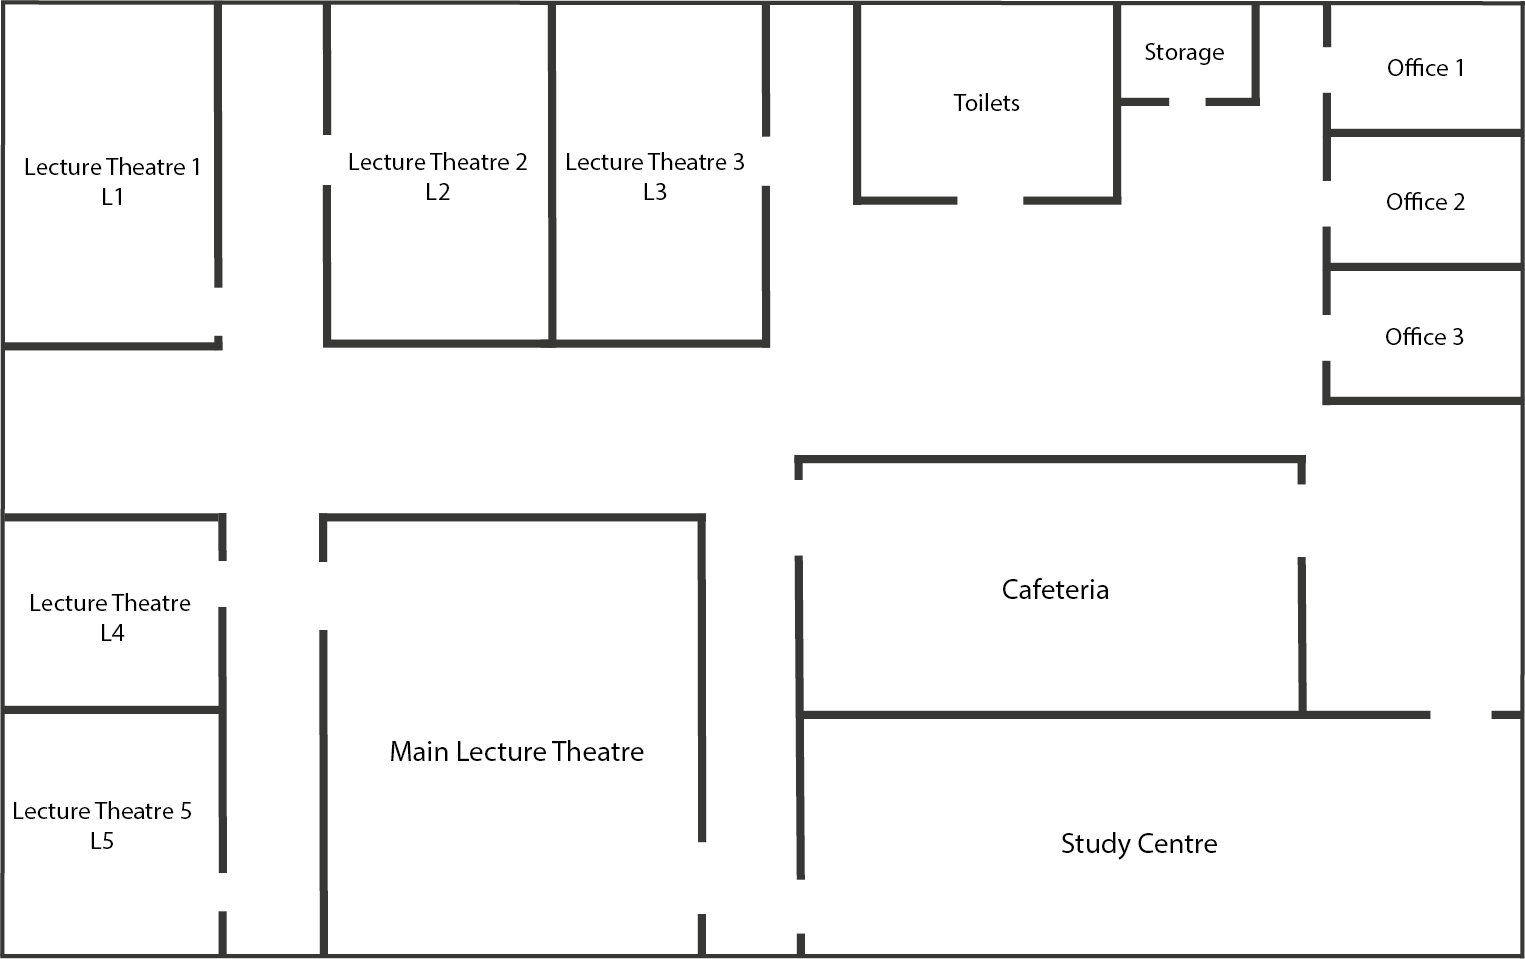
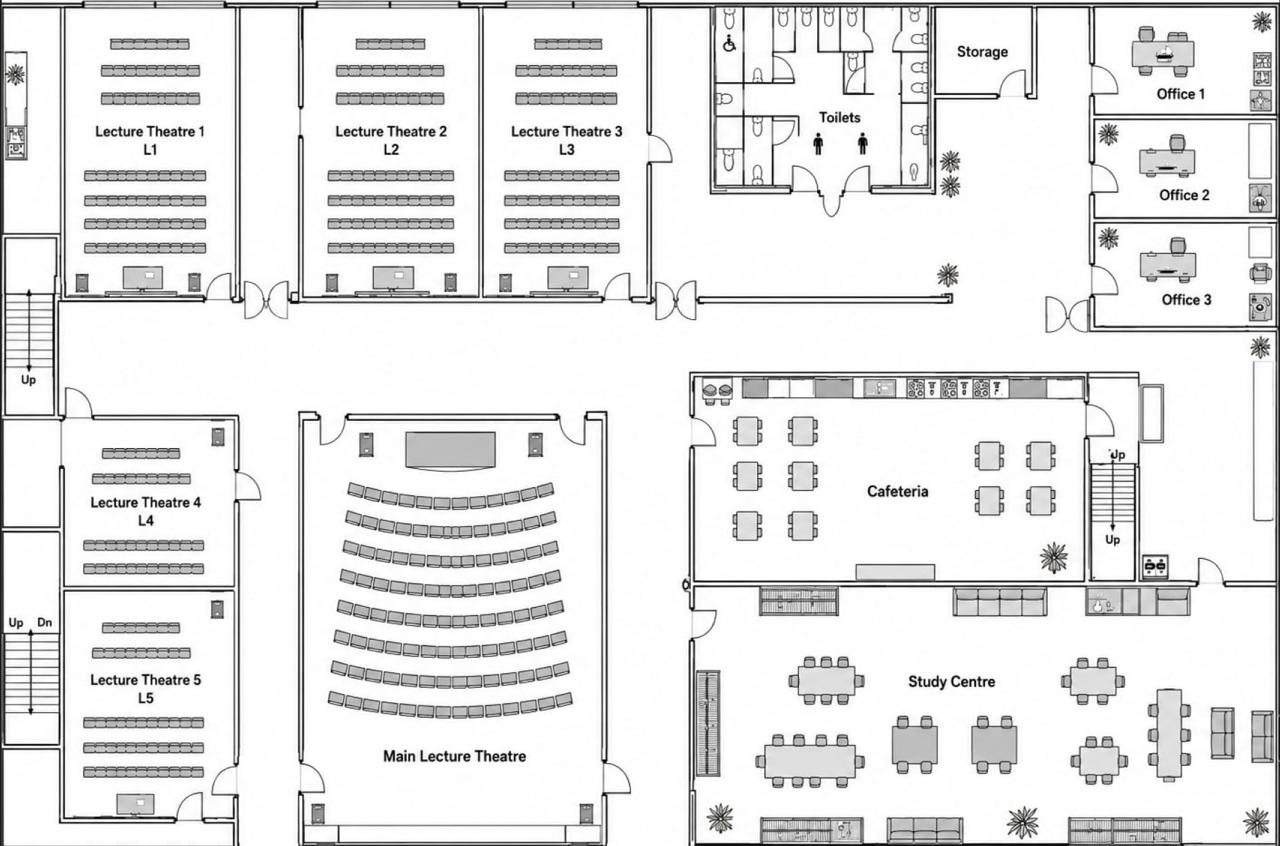
updated maintenance flow and floor plans

Changed region(s): [[0.0, 0.0, 1.0, 1.0], [0.2812, 0.8913, 0.4062, 0.922]]

diff --git a/expo-app/app/(tabs)/index.tsx b/expo-app/app/(tabs)/index.tsx
@@ -169,6 +169,9 @@ export default function HomeScreen() {
   const [sheetExpanded, setSheetExpanded] = useState(false);
   const [selectedMapCase, setSelectedMapCase] = useState<any | null>(null);
 
+  const [showMaintenanceModal, setShowMaintenanceModal] = useState(false);
+  const [selectedMaintenanceType, setSelectedMaintenanceType] = useState('');
+
   async function saveLocation(x: number, y: number, label: string) {
     const newCase = await createCase({
       title: `${incidentType} Case`,
@@ -918,7 +921,13 @@ export default function HomeScreen() {
                   setQuestionAnswers(['', '']);
 
                   setShowSituationModal(false);
-                  setShowQuestionModal(true);
+
+                  if (item.label === 'Maintenance') {
+                    setSelectedMaintenanceType('');
+                    setShowMaintenanceModal(true);
+                  } else {
+                    setShowQuestionModal(true);
+                  }
                 }}
               >
                 <View style={styles.situationLeft}>
@@ -948,6 +957,115 @@ export default function HomeScreen() {
           </View>
         </View>
       </Modal>
+
+
+
+
+
+      <Modal visible={showMaintenanceModal} transparent animationType="fade">
+        <View style={styles.modalOverlay}>
+          <View style={styles.modalBox}>
+            <ScrollView showsVerticalScrollIndicator={false}>
+              <Text style={styles.modalTitle}>
+                What type of maintenance is needed?
+              </Text>
+
+              <Text style={styles.modalSubtitle}>
+                Choose the option that best describes the issue
+              </Text>
+
+              <View style={styles.maintenanceGrid}>
+                {[
+                  {
+                    label: 'Plumbing',
+                    icon: '🚰',
+                  },
+                  {
+                    label: 'Electrical',
+                    icon: '⚡',
+                  },
+                  {
+                    label: 'Heating',
+                    icon: '🌡',
+                  },
+                  {
+                    label: 'Structural',
+                    icon: '🏗',
+            },
+          ].map((item) => {
+            const selected = selectedMaintenanceType === item.label;
+
+            return (
+              <Pressable
+                key={item.label}
+                style={[
+                  styles.maintenanceOption,
+                  selected && styles.maintenanceOptionSelected,
+                ]}
+                onPress={() => {
+                  setSelectedMaintenanceType(item.label);
+                }}
+              >
+                <Text style={styles.maintenanceIcon}>{item.icon}</Text>
+
+                <Text
+                  style={[
+                    styles.maintenanceOptionText,
+                    selected && styles.maintenanceOptionTextSelected,
+                  ]}
+                >
+                  {item.label}
+                </Text>
+
+                {selected && (
+                  <Text style={styles.maintenanceCheck}>✓</Text>
+                )}
+              </Pressable>
+            );
+          })}
+        </View>
+
+        <Pressable
+          style={[
+            styles.modalButton,
+            {
+              backgroundColor: selectedMaintenanceType
+                ? '#16A34A'
+                : '#9CA3AF',
+              marginTop: 18,
+              opacity: selectedMaintenanceType ? 1 : 0.6,
+            },
+          ]}
+          disabled={!selectedMaintenanceType}
+          onPress={() => {
+            setShowMaintenanceModal(false);
+            setShowQuestionModal(true);
+          }}
+        >
+          <Text style={styles.modalButtonText}>Continue</Text>
+        </Pressable>
+
+            <Pressable
+              style={styles.backButton}
+                onPress={() => {
+                  setShowMaintenanceModal(false);
+                  setShowSituationModal(true);
+                }}
+                >
+                <Text style={styles.backButtonText}>Back</Text>
+              </Pressable>
+            </ScrollView>
+          </View>
+        </View>
+      </Modal>
+
+
+
+
+
+
+
+
 
       <Modal visible={showQuestionModal} transparent animationType="fade">
         <View style={styles.modalOverlay}>
@@ -1719,4 +1837,55 @@ const styles = StyleSheet.create({
     fontWeight: '700',
     fontSize: 16,
   },
+
+  maintenanceGrid: {
+  flexDirection: 'row',
+  flexWrap: 'wrap',
+  justifyContent: 'space-between',
+  gap: 12,
+  marginTop: 18,
+},
+
+maintenanceOption: {
+  width: '47%',
+  minHeight: 125,
+  backgroundColor: '#FFFFFF',
+  borderWidth: 2,
+  borderColor: '#E5E7EB',
+  borderRadius: 16,
+  padding: 14,
+  alignItems: 'center',
+  justifyContent: 'center',
+  position: 'relative',
+},
+
+maintenanceOptionSelected: {
+  backgroundColor: '#DCFCE7',
+  borderColor: '#16A34A',
+},
+
+maintenanceIcon: {
+  fontSize: 32,
+  marginBottom: 10,
+},
+
+maintenanceOptionText: {
+  color: '#1F2937',
+  fontSize: 15,
+  fontWeight: '700',
+  textAlign: 'center',
+},
+
+maintenanceOptionTextSelected: {
+  color: '#166534',
+},
+
+maintenanceCheck: {
+  position: 'absolute',
+  top: 8,
+  right: 10,
+  color: '#16A34A',
+  fontSize: 18,
+  fontWeight: '800',
+},
 });
